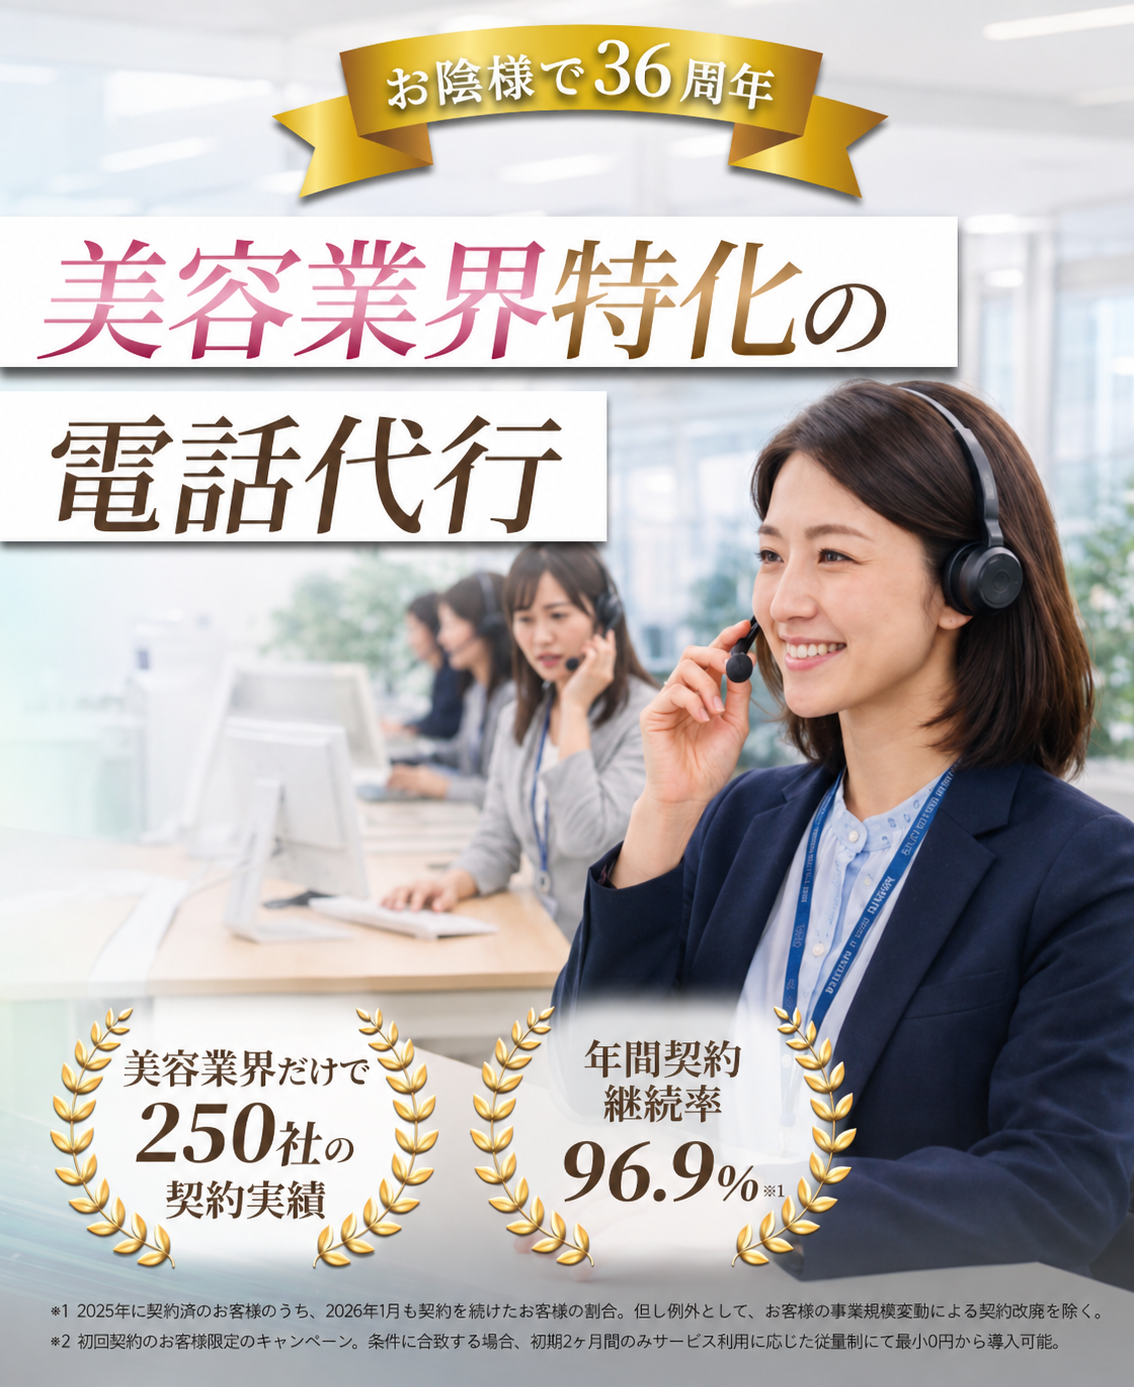
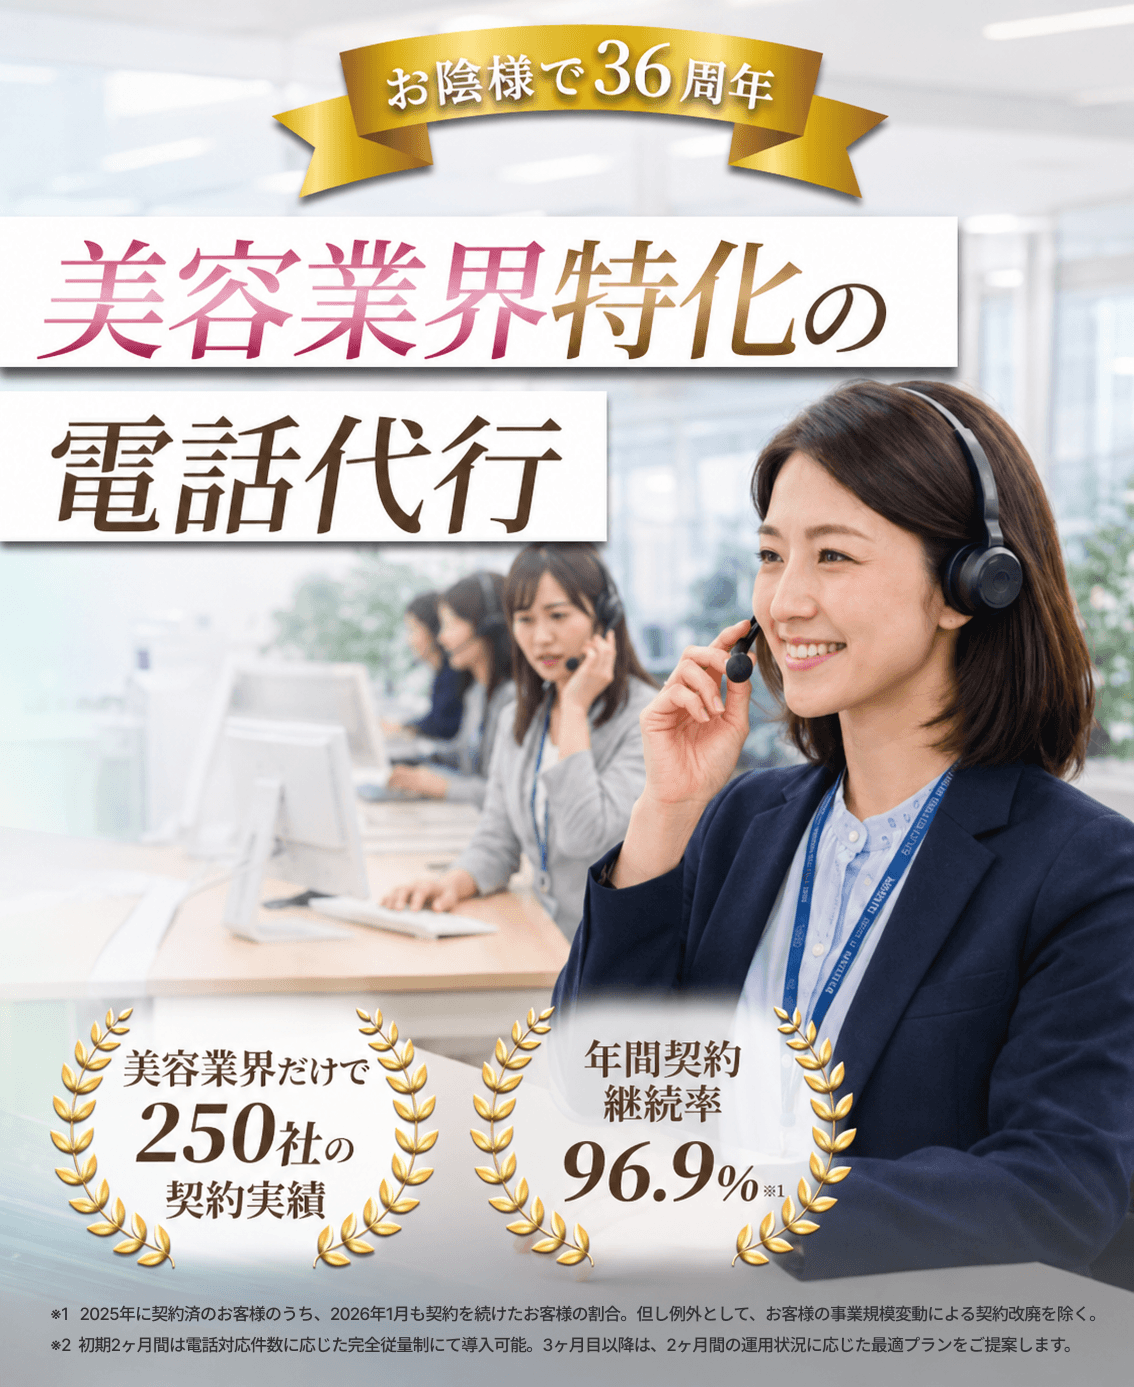
FV画像、ヘッダーの注釈フォントサイズ調整

Changed region(s): [[0.0309, 0.9301, 0.9568, 0.9921]]

diff --git a/style.css b/style.css
@@ -61,9 +61,11 @@ a {
 }
 
 .hero .container .campaign {
-    font-size: clamp(10px, 4vw, 20px);
     margin: 10px auto 5px;
     text-align: center;
+    font-size: clamp(11px, 2.6vw, 14px);
+    line-height: 1.4;
+    padding: 6px 0;
 }
 
 .hero .container .campaign span {
@@ -1498,12 +1500,6 @@ footer .container .copyright {
     font-size: 1.1em;
 }
 
-/* hero campaign banner (新キャンペーン表記の文字数調整) */
-.hero .container .campaign {
-    font-size: clamp(11px, 2.6vw, 14px);
-    line-height: 1.4;
-    padding: 6px 8px;
-}
 
 /* ========================================
    2026-05-19 配色刷新 — Blue accent 追加